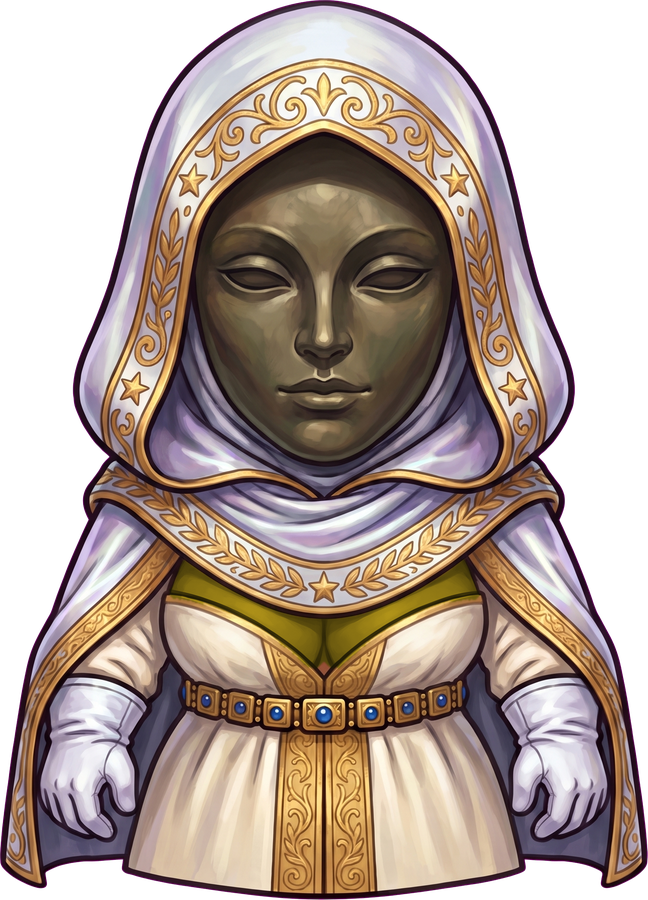
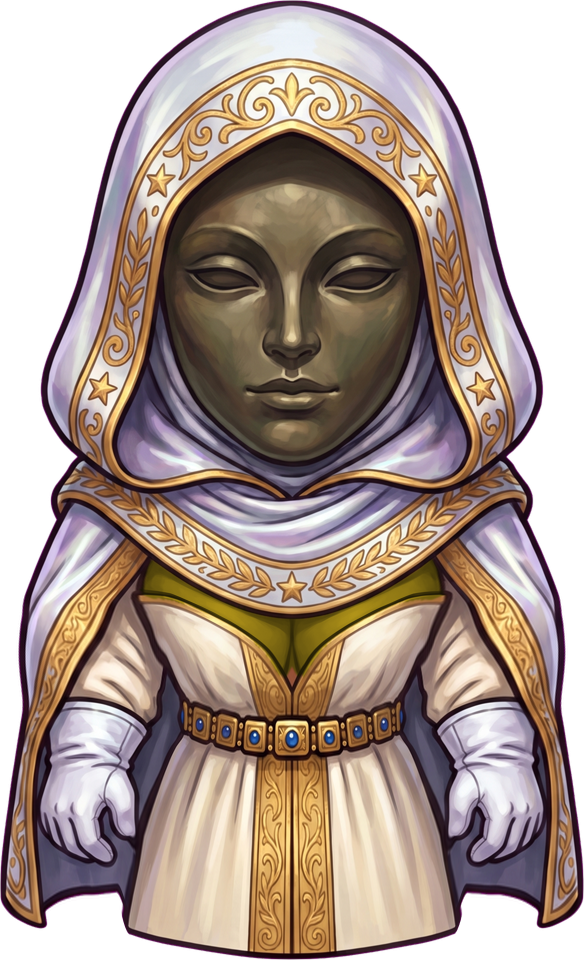
The Empress slimmer and a little longer, an outfit test, and no emoji on the outfits
The Empress's regalia keep their look and change their shape: a waist like the Queen's robes (the belt
290 -> 226 px), the bust a little narrower, and 60 px more gown under the bust and below the belt. It is a
mechanical warp of the installed pictures, the same for all four races - the sleeves, gloves and cape move
with the body and the gloves keep their shape. She is drawn at EMPRESS_BODY_H = 52*960/900, the Emperor's
scale, so the two masks stay the same size, and the pictures load as ?v=4. Details in
assets/characters/emperor-outfit-manifest.json.

--riptide-test=outfits (Desktop shortcut 'Riptide RPG - Outfit Test') starts a throwaway human Empress of a
random class with every outfit - the class colours, the Ice Armor, the Queen's robes and the regalia - in the
raid test's profile of its own, nothing saved, with the Outfits page open (tests/outfit-test.test.cjs).

The Outfits cards, the "- worn." line and the offer's title show the names without emoji.

diff --git a/game.js b/game.js
@@ -768,7 +768,7 @@ function charSprite(raceId,clsId,female){
  const file=clsId==='emperor'&&!female?'emperor_male':key;   /* 🎭 the masked Emperor is one picture for every race */
  let im=charSpriteCache[file];
  if(!im){
-  im=new Image();im.src='assets/characters/'+file+'.png?v='+(key==='humanfemale_mage'?4:3);charSpriteCache[file]=im;
+  im=new Image();im.src='assets/characters/'+file+'.png?v='+(key==='humanfemale_mage'||/female_emperor$/.test(key)?4:3);charSpriteCache[file]=im;   /* v4: the Empress reshaped 2026-10-09 */
   im.onload=()=>{ /* portraits render before sprites finish loading - repaint the open screens */
    try{
     if($('select').classList.contains('open'))renderSelect();
@@ -1069,11 +1069,11 @@ function femBootW(raceId,clsId){
    robes (unlocked by taking the crown). S.outfit holds the choice; a save from before the choice existed keeps the old
    rule - Ice Armor on the back shows Ice Armor. The draw functions take it as `iceArm`: false, true (ice) or 'royal'. */
 const OUTFITS=[
- {id:'default',icon:'🧵',name:()=>classOf()?classOf().name+"'s colours":'Your colours',desc:'What you set out in. The class, as it always looked.',how:'always yours'},
- {id:'ice',icon:'🧊',name:()=>'Ice Armor',desc:'The cursed plate the Altar gave you for a life. It never lets go - but it can be hidden.',how:'the Altar’s ritual'},
- {id:'royal',icon:'👑',name:()=>(S&&S.gender==='f'?'Queen':'King')+'’s robes',desc:'Crimson velvet, ermine and the crown of the City. The tailors of the palace have your measure.',how:'take the crown'},
+ {id:'default',name:()=>classOf()?classOf().name+"'s colours":'Your colours',desc:'What you set out in. The class, as it always looked.',how:'always yours'},
+ {id:'ice',name:()=>'Ice Armor',desc:'The cursed plate the Altar gave you for a life. It never lets go - but it can be hidden.',how:'the Altar’s ritual'},
+ {id:'royal',name:()=>(S&&S.gender==='f'?'Queen':'King')+'’s robes',desc:'Crimson velvet, ermine and the crown of the City. The tailors of the palace have your measure.',how:'take the crown'},
  /* 🎭 asked for 2026-10-09: the regalia of the realm's Emperor or Empress - white silk, gold thread and a bronze mask */
- {id:'emperor',icon:'🎭',name:()=>(S&&S.gender==='f'?'Empress':'Emperor')+'’s regalia',desc:'White silk, gold thread and the bronze mask of the realm: behind it you are the face of every city and both great ports.',how:'hold all three cities and both great ports'},
+ {id:'emperor',name:()=>(S&&S.gender==='f'?'Empress':'Emperor')+'’s regalia',desc:'White silk, gold thread and the bronze mask of the realm: behind it you are the face of every city and both great ports.',how:'hold all three cities and both great ports'},
 ];
 function outfitUnlocked(id,ch=S){
  if(!ch)return id==='default';
@@ -1100,11 +1100,12 @@ const heroWeaponArgs=()=>S&&S.hideWeapon?{fm:false,id:'hidden'}:{fm:isFK(S.gear.
 const heroRing=()=>S&&!S.hideRing&&isRing(S.gear&&S.gear.trinket)?S.gear.trinket:null;
 const ROYAL_BODY_H=56;   /* the crown rides above the head: the royal frame is this tall for the same body as a 48-unit class frame */
 const EMPEROR_BODY_H=52;   /* 🎭 the hood stands a little above the hair: the body comes out as wide as a class body */
+const EMPRESS_BODY_H=EMPEROR_BODY_H*960/900;   /* 🎭 her gown is 60 px longer than his 900-px picture (narrower waist, longer dress, 2026-10-09): same scale, same mask */
 function paintedCharacterFrame(raceId,clsId,female,iceArm){
  raceId=RACE_ALIAS[raceId]||raceId;clsId=CLASS_ALIAS[clsId]||clsId;
  const robes=iceArm==='royal'||iceArm==='emperor'?iceArm:null;
  const image=charSprite(raceId,robes||(iceArm?'armor':clsId),female),
-  body=characterBodyFrame(image,robes==='royal'?ROYAL_BODY_H:robes==='emperor'?EMPEROR_BODY_H:48);
+  body=characterBodyFrame(image,robes==='royal'?ROYAL_BODY_H:robes==='emperor'?(female?EMPRESS_BODY_H:EMPEROR_BODY_H):48);
  if(!body)return null;
  const boots=characterBootFrame(raceId,female,bootImg,body.bodyBottom,body.bootTop);
  return {image,...body,boots,groundY:boots.groundY};
@@ -2469,6 +2470,34 @@ function raidTest(town='silverfjord'){
  };
  setTimeout(sailOff,900);
  return 'raid test: '+S.name+' the '+race.name+' '+cls.name+' sails for '+def.name;
+}
+/* 🧪 THE OUTFIT TEST (asked for 2026-10-09: "en test exe med en human female som har alla outfits i spelet"). A throwaway human
+   woman of a random class who has every outfit there is: the class colours, the Ice Armor (the Altar's ritual done, the plate in
+   her bag), the Queen's robes (the crown) and the Empress's regalia (all three cities and both great ports bought). She wakes in
+   the City in the regalia and the Outfits page opens once the loading screen is gone. S.test keeps her out of every save, the
+   cloud and the leaderboard (--riptide-test=outfits, the raid test's profile of its own); outfitTest() in a console does the same. */
+const TEST_NAMES_F=['Astrid','Freja','Ingrid','Sigrid','Solveig','Ylva','Tove','Ragnhild','Liv','Gudrun','Saga','Runa'];
+function outfitTest(){
+ if(gameOn&&S&&!S.test)return 'Change Character first - the test must not take over a hero in play.';
+ const pick=a=>a[Math.floor(Math.random()*a.length)],cls=pick(CLASSES);
+ S=migrate(freshState(pick(TEST_NAMES_F),'human',cls.id));
+ Object.assign(S,{id:'test-'+Date.now().toString(36),test:true,gender:'f',introPending:false,outfit:'emperor',emperorRegaliaOffered:true,
+  zone:CITY_ZONE,ritualDone:true,iceArmorGiven:true});
+ S.bag.push(makeIceArmor(S));   /* what the ritual hands over */
+ const c=S.city;CityEconomy.charter(c);
+ Object.assign(c,{crowned:true,deposed:'gaol',treasury:5e8});
+ c.allies=c.allies||{};
+ for(const d of CityEconomy.ALLIES)c.allies[d.id]={...(c.allies[d.id]||{}),stake:100,owned:true,pending:[],paid:d.price};   /* bought, as sealDeal does */
+ $('login').classList.remove('open');
+ beginGame(false);
+ log('🧪 <span class="imp">Outfit test</span> - '+esc(S.name)+', Human '+cls.name+' and Empress, has every outfit. Nothing in this test is saved.','imp');
+ const showOutfits=()=>{
+  if(!(gameOn&&S&&S.test))return;
+  const b=$('boot');if(b&&!b.classList.contains('gone')){setTimeout(showOutfits,250);return;}
+  openTab('outfits');
+ };
+ setTimeout(showOutfits,900);
+ return 'outfit test: '+S.name+' the Human '+cls.name+', Empress, every outfit';
 }
 const fmtNum=v=>(Math.round(v*10)/10).toString();
 function drawTownFoe(n){   /* a soldier of the garrison: his town's colours on the stones under him */
@@ -18739,7 +18768,7 @@ function renderOutfits(){
  if(!S)return;
  const cur=heroOutfit(),list=OUTFITS.filter(o=>outfitUnlocked(o.id));
  $('outfitIntro').textContent=(list.length===1?'One outfit':list.length+' outfits')+'. Cosmetic only: the numbers come from what you wear, the look from what you choose here.';
- $('outfitBody').innerHTML='<div class="outfit-grid">'+list.map(o=>'<div class="card outfit-card'+(o.id===cur?' worn':'')+'"><canvas width="150" height="190" data-outfit-portrait="'+o.id+'" aria-label="'+esc(o.name())+'"></canvas><h3>'+o.icon+' '+esc(o.name())+'</h3><p class="cl">'+esc(o.desc)+'</p>'
+ $('outfitBody').innerHTML='<div class="outfit-grid">'+list.map(o=>'<div class="card outfit-card'+(o.id===cur?' worn':'')+'"><canvas width="150" height="190" data-outfit-portrait="'+o.id+'" aria-label="'+esc(o.name())+'"></canvas><h3>'+esc(o.name())+'</h3><p class="cl">'+esc(o.desc)+'</p>'
   +'<button class="sbtn'+(o.id===cur?'':' gold')+'" data-outfit-wear="'+o.id+'"'+(o.id===cur?' disabled':'')+'>'+(o.id===cur?'Worn':'Wear it')+'</button></div>').join('')+'</div>'
   ;   /* a locked outfit is not listed, not even as a hint (asked for 2026-09-22): you learn of it when it is yours */
  const owner=S;
@@ -18753,7 +18782,7 @@ function renderOutfits(){
  $('outfitBody').querySelectorAll('[data-outfit-wear]').forEach(b=>b.onclick=()=>{
   const id=b.dataset.outfitWear;if(!outfitUnlocked(id))return;
   S.outfit=id;save();renderOutfits();renderHero();sfx.loot&&sfx.loot();
-  const o=OUTFITS.find(x=>x.id===id);stageMsg(o.icon+' '+o.name()+' - worn.',1800);
+  const o=OUTFITS.find(x=>x.id===id);stageMsg(o.name()+' - worn.',1800);
  });
  $('outfitBack').onclick=()=>{clearTimeout(outfitPortraitTimer);openTab('hero');};
 }
@@ -18762,7 +18791,7 @@ let outfitOfferPaintTimer=null;
 function openOutfitOffer(id){
  if(!S||!outfitUnlocked(id))return;
  const o=OUTFITS.find(x=>x.id===id);if(!o)return;
- $('outfitOfferTitle').textContent=o.icon+' '+o.name().toUpperCase();
+ $('outfitOfferTitle').textContent=o.name().toUpperCase();   /* no emoji on the outfits (asked for 2026-10-09) */
  $('outfitOfferText').textContent=id==='royal'?'The tailors of the palace have your measure. Crimson, ermine and the crown - the City wants to see it worn.'
   :id==='emperor'?'Three cities and two great ports kneel to one crown. White silk, gold thread and the bronze mask of the realm - the empire wants to see its face.'
   :o.desc;
@@ -18772,7 +18801,7 @@ function openOutfitOffer(id){
   if(S!==owner||$('outfitFx').style.display!=='flex')return;
   if(!paintOutfitPortrait(cv,id))outfitOfferPaintTimer=setTimeout(paint,400);
  };
- $('outfitOfferWear').onclick=()=>{clearTimeout(outfitOfferPaintTimer);S.outfit=id;save();renderHero();$('outfitFx').style.display='none';stageMsg(o.icon+' '+o.name()+' - worn.',2400,'#ffd76a');sfx.loot&&sfx.loot();};
+ $('outfitOfferWear').onclick=()=>{clearTimeout(outfitOfferPaintTimer);S.outfit=id;save();renderHero();$('outfitFx').style.display='none';stageMsg(o.name()+' - worn.',2400,'#ffd76a');sfx.loot&&sfx.loot();};
  $('outfitOfferLater').onclick=()=>{clearTimeout(outfitOfferPaintTimer);$('outfitFx').style.display='none';stageMsg('Outfits are in the hero panel whenever you want them.',2400);};
  $('outfitFx').style.display='flex';
  paint();
@@ -21024,6 +21053,7 @@ requestAnimationFrame(frame);
  /* 🧪 the desktop shell's test profile: no cloud and no sign-in, straight into the scenario */
  const test=window.desktop&&typeof window.desktop.testScenario==='function'?await window.desktop.testScenario().catch(()=>null):null;
  if(test&&test.split(':')[0]==='raid'){seasonReady=true;document.title+=' - Raid test';raidTest(test.split(':')[1]||undefined);return;}   /* raid:<port> for another town */
+ if(test==='outfits'){seasonReady=true;document.title+=' - Outfit test';outfitTest();return;}
  await initFirebase();
  await seasonWipeIfNeeded();
  seasonReady=true;

diff --git a/index.html b/index.html
@@ -550,7 +550,7 @@
 
   <div id="outfitFx" role="dialog" aria-modal="true" aria-labelledby="outfitOfferTitle" style="position:absolute;inset:0;z-index:96;display:none;align-items:center;justify-content:center;background:rgba(6,4,2,.88)">
    <div class="casinobox" style="border-color:#ffd76a;max-width:440px;text-align:center">
-    <div class="slottop" id="outfitOfferTitle" style="color:#ffd76a;margin-bottom:8px">👑 KING’S ROBES</div>
+    <div class="slottop" id="outfitOfferTitle" style="color:#ffd76a;margin-bottom:8px">KING’S ROBES</div>
     <canvas id="outfitOfferPortrait" width="180" height="220" style="display:block;margin:0 auto 10px"></canvas>
     <div class="ss" id="outfitOfferText" style="color:var(--parch);font-size:14.5px;line-height:1.65;margin-bottom:14px"></div>
     <button class="sbtn gold" id="outfitOfferWear" style="width:100%;padding:12px;margin-bottom:6px">Wear them</button>
@@ -964,7 +964,7 @@
 <script src="assets/cloud/firestore-rest.js?v=1"></script>
 <script src="assets/boss/odin-arena.js?v=1"></script>
 <script src="assets/models/moonshine-folk.js?v=1"></script>
-<script src="game.js?v=229"></script>
+<script src="game.js?v=230"></script>
 <script src="assets/ui/crafting.js?v=4"></script>
 </body>
 </html>
